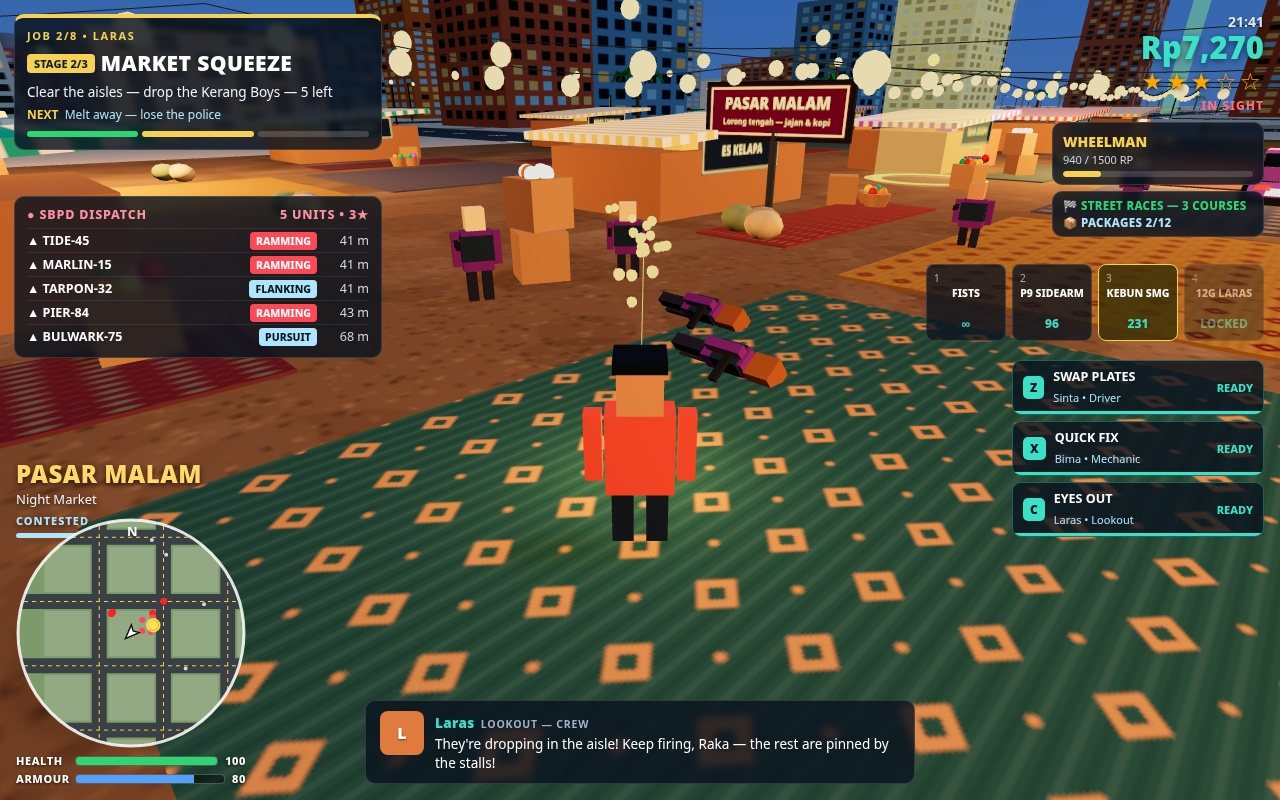
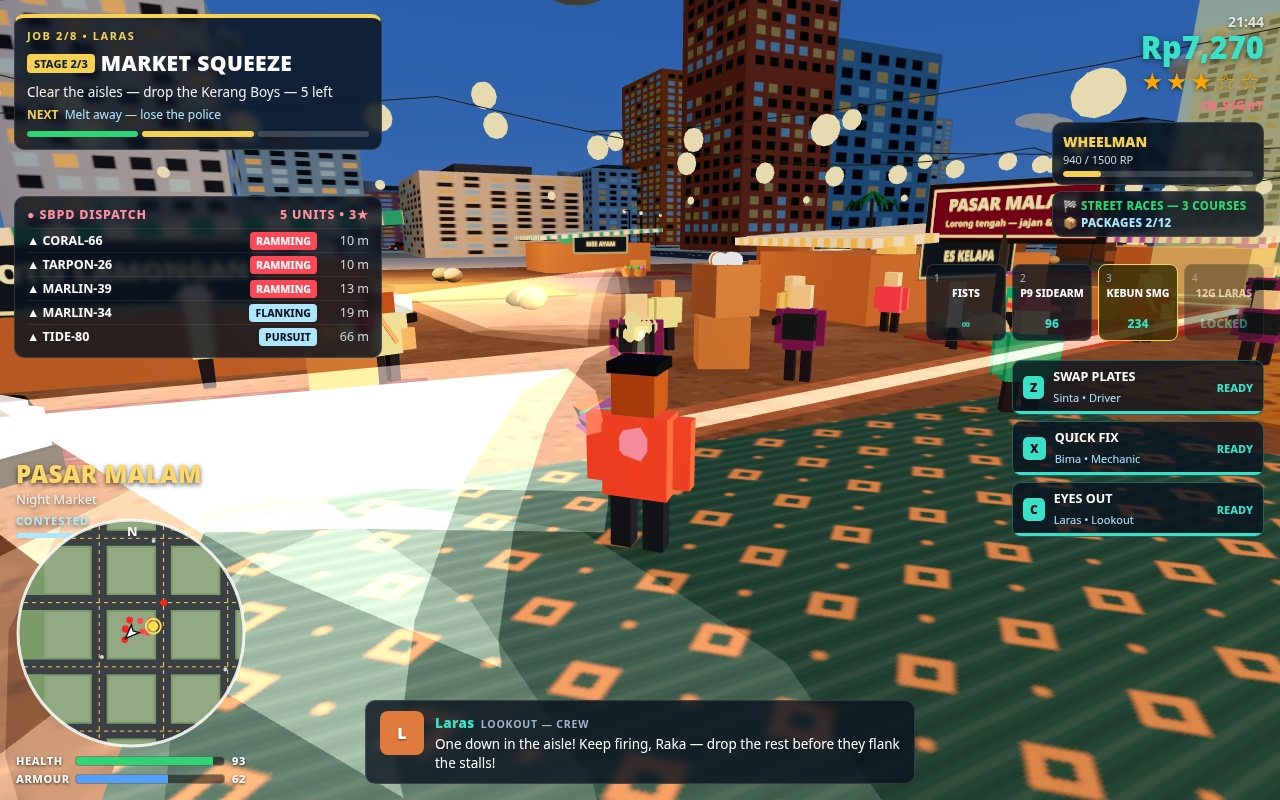
Senja Bay Heat v3 market firefight: gunfire VFX pass (pooled glow beams, muzzle orbs, tuned hit bursts, flat corpse settle, hostile return-fire signs) + market restage (low close POV, one flat body centre-aisle under the beam, crowded aisle, clean gun-tracer-impact line)

diff --git a/game/src/shots.js b/game/src/shots.js
@@ -30,81 +30,118 @@ export function stageScene(name, api) {
       break;
     }
     case "market": {
-      // On-foot combat INSIDE the night market, staged for READABILITY:
-      // full night (21.6) so the muzzle light, tracers and hit sparks
-      // carry against the dark, and the whole fight pulled in tight
-      // around Raka in the z=143 aisle, the lit z=126 stall fronts
-      // as the backdrop. Raka fills the lower-centre foreground
-      // from the game's own follow camera.
-      // FIREFIGHT GEOMETRY (placeOnFoot heading 3π/4, so the SMG
-      // ray runs (+0.707, -0.707) out of (-238, 141.5); screen-
-      // right along the ray is (+0.707, +0.707)). Every placement
-      // below is dictated by how the dead actually fall in this
-      // game — measured, not guessed: a dropped man tips forward
-      // around his feet and comes to rest lying along world +Z
-      // from where he stood (bounding box ~2.0 m in Z, ~1.1 m in
-      // X, top edge ~0.75 m up, whatever he was facing). Two
-      // consequences. First, the fight runs NE at 45°, never due
-      // north: pointing at the camera, a corpse foreshortens
-      // into a blob behind Raka's legs; across the view, the
-      // same corpse stretches over the mats where a body reads
-      // as a body. (The stall signs, which face +Z, still read
-      // at 45° — the ES KELAPA stall stands on the ray itself.)
-      // Second, the first kill stands FAR down the ray: his
-      // corpse reaches ~1.4 m back toward Raka and ~1.4 m to
-      // screen-right of where he stood, so a man dropped at
-      // spitting distance ends up sprawled across Raka's gun
-      // arm, masquerading as part of it. Dropped at 5 m, the
-      // body lands clear of the silhouette, in the open.
-      //   A (-234.0, 138.4) — 5.0 m down the ray, 0.6 m screen-
-      //     right of it: the first kill. His corpse comes to rest
-      //     at (t≈3.6–5.0, s≈0.6–2.0), fully clear of Raka's
-      //     outline, muzzle light raking it every time the gun
-      //     fires past him — and it lands on the TEAL runner
-      //     (x −241.8…−229.2), not the burgundy one the fight
-      //     used to sit on: a dark purple body on dark red
-      //     pattern is camouflage, on teal it stands out. The
-      //     whole fight shifted one mat east for that contrast;
-      //     the backdrop sign on the ray is now ES KELAPA.
-      //   B (-232.3, 136.5) — 7.6 m down the ray, 0.5 m screen-
-      //     right: the second kill, and the live target while A
-      //     is going down, his burst stacking over A's body. The
-      //     offset matters for the living too — dead-centre on
-      //     the ray he hides behind Raka's silhouette and only
-      //     his head peeks over it, sparks and all; half a metre
-      //     to the side, his shoulder, gun arm and the burst on
-      //     his chest clear Raka's outline. His corpse reaches
-      //     back onto the same teal runner.
-      //   C (-230.8, 133.9) — 10.5 m down the ray, a step
-      //     screen-left: the next man in line, depth behind B,
-      //     already returning fire — once B drops, the fire
-      //     walks on to him.
-      //   D (-234.4, 133.1) — off the line by the stall fronts,
-      //     screen-left: trades shots with Raka the whole time
-      //     (his hits land as red bursts on Raka — the game's real
-      //     hostile fire, nothing posed).
-      // The capture tool holds the trigger on the real shoot() and
-      // picks from the frames where tracers, spark bursts and the
-      // downed men share the frame. Clock 21.6, not 20.2: at 20.2
-      // the dusk band still floats the whole scene up into evening
-      // blue and the firelight drowns in it — 21.6 is past the band,
-      // true night, when the market's own signs and string lights
-      // (all unlit materials) take over the frame and every tracer
-      // and spark stands out against the dark.
+      // On-foot combat INSIDE the night market, staged for CLEAN
+      // FIREFIGHT GEOMETRY. The previous frame failed on geometry,
+      // not content: the camera sat dead behind Raka so his firing
+      // side was hidden, his target stood directly behind his
+      // silhouette so only the spark column showed above his head,
+      // and two dropped men lay half-rolled beside him with their
+      // gun boxes jutting at matching angles — clutter, not story.
+      // This staging fixes the geometry itself:
+      //   * LOW, CLOSE, DOWN THE AISLE. The reference frames for
+      //     this competition shoot their fights from shoulder
+      //     height, tight behind the player, the corridor
+      //     vanishing ahead — while this game's default follow
+      //     camera floats high and far and shrinks every effect
+      //     in the scene. So the capture tool drags the pitch
+      //     most of the way to the game's own floor (camPitch
+      //     ≈0.17 against the 0.06 floor the mouse-orbit allows:
+      //     camera ≈3.0 m up, Raka filling the lower third — the
+      //     last step down was tried and a flat corpse on the
+      //     aisle goes edge-on and vanishes at the full floor)
+      //     and setCamOffset(0.35) holds a
+      //     slight over-the-shoulder angle, enough that the
+      //     muzzle orb and the beam's first metre clear his
+      //     silhouette. Nothing here exceeds what a player's own
+      //     mouse can do in normal play. In this game the shot
+      //     flies along the camera's forward — heading +
+      //     camOffset — so with Raka placed at heading 3π/4 the
+      //     ray runs fwd(3π/4 + 0.35) ≈ (0.42, −0.91): up the
+      //     aisle, stall fronts and their south-facing signs as
+      //     the backdrop.
+      //   * ONE MAN DOWN, FLAT, CENTRE-AISLE — AND ONE STILL
+      //     STANDING UNDER THE BEAM. The near Kerang Boy stands
+      //     on the ray 3.0 m out and takes the capture's first
+      //     four hits (60 hp, 15 a hit): he dies and settles flat
+      //     on his back along the aisle (the game's corpse settle
+      //     lays him toward −Z, head away from Raka, gun hand
+      //     empty), directly under the line of fire. The far man
+      //     stands on the same ray 6.4 m out; once the near man is
+      //     down the fire walks over the body onto him, and the
+      //     capture cuts the trigger after two hits with him
+      //     still on his feet — beam over the corpse, burst on
+      //     the standing man's torso, cause and effect in one
+      //     glance. One body is a story; the two half-rolled
+      //     corpses of the failed frame were clutter because the
+      //     old settle left them hovering with their gun boxes
+      //     jutting — flat and alone, a body reads as a body.
+      //   * ONE WINGMAN off the ray, well east of the far man
+      //     (perpendicular distance ~4.4 — the ray test can never
+      //     pick him), for gang context outside the sightline.
+      //   * A LIVING AISLE. Sixteen shoppers crowd the corridor —
+      //     browsing the stall fronts, walking the mid-aisle, a
+      //     pair deep at the east end — because a night market
+      //     with four figures in it reads as a film set, not a
+      //     market. Three of them stand inside the panic radius
+      //     (under 6 m from Raka, wanted already 2) and are
+      //     already fleeing across the frame's edges when the
+      //     shooting starts: the game's own behaviour, staged by
+      //     placement alone. Every shopper stands clear of the
+      //     sightline corridor (checked >1.6 m off the ray), so
+      //     the crowd fills the sides and the depth while the
+      //     beam, the body and the target stay readable.
+      // Full night 21.6, past the dusk band, when the market's
+      // own signs and string lights take over the frame and every
+      // beam and spark stands out against the dark.
       api.setClock(21.6);
       api.setStats({ money: 7270, respect: 940, health: 100, armor: 80 });
       api.startJobAt(1, 1);                    // clear-the-aisles stage (spawns hostiles)
-      api.placeOnFoot(-238, 141.5, Math.PI * 0.75); // on the teal runner, facing NE across the aisle
-      api.setCamOffset(0);
-      // Kerang Boys on and around the firing line, in SMG range.
-      api.addPed(-234.0, 138.4, { hostile: true, gun: true, shirt: 0x6c3483, vest: true });
-      api.addPed(-232.3, 136.5, { hostile: true, gun: true, shirt: 0x6c3483, vest: true });
-      api.addPed(-230.8, 133.9, { hostile: true, gun: true, shirt: 0x6c3483, vest: true });
-      api.addPed(-234.4, 133.1, { hostile: true, gun: true, shirt: 0x6c3483, vest: true });
-      // Shoppers kept south and west of the fight, out of the line.
-      api.addPed(-244, 138, {});
-      api.addPed(-233, 149, {});
-      api.addPed(-227, 149.5, {});
+      api.placeOnFoot(-238, 140.0, Math.PI * 0.75); // at the teal runner's north edge, facing NE across the aisle
+      api.setCamOffset(0.35);
+      // The fight, all of it on the ray fwd(3π/4 + 0.35) ≈
+      // (0.42, −0.91) out of (-238, 140): the near man 3.0 m out
+      // at (-236.7, 137.3) — he is the kill, and his body settles
+      // flat across the mat's north edge under the beam (close
+      // enough that even edge-on at the low camera his footprint
+      // reads — a flat body 9 m out in the dark nearly vanishes).
+      // He wears the gang purple without the vest: face-up on
+      // dark earth, the bare shirt is what keeps his body
+      // readable — the near-black vest swallowed him whole;
+      // the far man 6.4 m out at (-235.3, 134.2) — he is the
+      // standing target the beam lands on. His wingman stands
+      // well east of the line, a separate figure in his own
+      // space, never a twin beside the target and never on the ray.
+      api.addPed(-236.7, 137.3, { hostile: true, gun: true, shirt: 0x6c3483, vest: false });
+      api.addPed(-235.3, 134.2, { hostile: true, gun: true, shirt: 0x6c3483, vest: true });
+      api.addPed(-231.8, 134.6, { hostile: true, gun: true, shirt: 0x6c3483, vest: true });
+      // The crowd. api.addPed returns the ped, and pinning its
+      // wander speed is what keeps a browser browsing his stall
+      // for the whole capture: the game's shoppers walk at up to
+      // 3 m/s and think nothing of crossing a gunfight — the
+      // first crowded take lost its target behind a wanderer who
+      // strolled into the sightline and stood there.
+      const shopper = (x, z, speed) => { const p = api.addPed(x, z, {}); if (p) p.speed = speed; };
+      // Browsers along the north stall fronts, shuffling locally:
+      shopper(-247, 130.5, 0.35);
+      shopper(-243.5, 129.8, 0.35);
+      shopper(-240, 130.8, 0.35);
+      shopper(-232.5, 129.3, 0.35);
+      shopper(-228.5, 129.6, 0.35);
+      shopper(-225.5, 130.4, 0.35);
+      // Walkers in the mid-aisle, west and east of the corridor:
+      shopper(-249, 134.5, 0.9);
+      shopper(-245.5, 136.5, 0.9);
+      shopper(-226.5, 138.5, 0.9);
+      shopper(-224.5, 135, 0.9);
+      shopper(-231.5, 139.5, 0.7);
+      // A pair deep at the east end, for depth:
+      shopper(-220.5, 132.5, 0.5);
+      shopper(-219.3, 133.8, 0.5);
+      // Reactors inside the panic radius — already running when
+      // the first shot lands, across the frame's edges:
+      api.addPed(-243.2, 138.2, {});
+      api.addPed(-241.8, 135.8, {});
+      api.addPed(-233.8, 143.2, {});
       // A shopper's scooter parked at the aisle's edge east of the
       // fight, and one of the bay's hidden packages glowing further
       // down it (only the beach and pier packages are marked found,
@@ -115,7 +152,7 @@ export function stageScene(name, api) {
       api.selectWeapon("smg");
       api.setWanted(2, true);
       api.spawnFootPack(2);
-      api.dialogue("Laras", "LOOKOUT — CREW", "They're dropping in the aisle! Keep firing, Raka — the rest are pinned by the stalls!");
+      api.dialogue("Laras", "LOOKOUT — CREW", "One down in the aisle! Keep firing, Raka — drop the rest before they flank the stalls!");
       break;
     }
     case "port": {

diff --git a/game/src/main.js b/game/src/main.js
@@ -337,19 +337,95 @@ function tryEnterExitCar() {
 }
 
 // ---------- combat ----------
-const tracers = [];
-const tracerMat = new THREE.LineBasicMaterial({ color: 0xffe14d, transparent: true, opacity: 0.9 });
 const flash = new THREE.PointLight(0xffc46b, 0, 18);
 scene.add(flash);
 let fireTimer = 0;
+const Y_AXIS = new THREE.Vector3(0, 1, 0);
+// Gunfire visuals. A shot only reads — in play, and in any frame a
+// player might capture — if all three of its signs are big enough to
+// survive the render: a thick glowing beam, a muzzle flash orb, and a
+// fat spark burst where the round lands. The old one-pixel line
+// tracer and five grain-sized sparks vanished past spitting range, so
+// a firefight rendered as men standing still, and the cause-effect
+// line from gun to target could not be seen at all. Beams and orbs
+// are pooled and recycled like the ambient Effects pool, so the frame
+// loop never allocates for gunfire.
+const beams = [];
+let beamCursor = 0, lastBeamEnd = null;
+const beamGeo = new THREE.BoxGeometry(1, 1, 1);
+function beamPart(width, color, opacity) {
+  const mat = new THREE.MeshBasicMaterial({ color, transparent: true, opacity: 0, blending: THREE.AdditiveBlending, depthWrite: false });
+  const mesh = new THREE.Mesh(beamGeo, mat);
+  mesh.visible = false;
+  scene.add(mesh);
+  return { mesh, mat, width, baseOpacity: opacity };
+}
+for (let i = 0; i < 28; i++) beams.push({ core: beamPart(0.11, 0xffe9a8, 0.95), halo: beamPart(0.24, 0xff9d2e, 0.27), life: 0, maxLife: 1 });
+function fireBeam(a, b, hostile) {
+  const slot = beams[beamCursor]; beamCursor = (beamCursor + 1) % beams.length;
+  slot.core.mat.color.setHex(hostile ? 0xffc4b8 : 0xffe9a8);
+  slot.halo.mat.color.setHex(hostile ? 0xff4a3d : 0xff9d2e);
+  const len = Math.max(a.distanceTo(b), 0.1);
+  for (const part of [slot.core, slot.halo]) {
+    part.mesh.position.copy(a).add(b).multiplyScalar(0.5);
+    part.mesh.scale.set(part.width, part.width, len);
+    part.mesh.lookAt(b);
+    part.mat.opacity = part.baseOpacity;
+    part.mesh.visible = true;
+  }
+  slot.life = slot.maxLife = 0.16;
+  lastBeamEnd = b.clone();
+}
+// The muzzle orb: a radial-gradient sprite, additive — the glowing
+// ball of fire a real muzzle flash blooms into for a few frames.
+const flashTex = (() => {
+  const c = document.createElement("canvas"); c.width = c.height = 128;
+  const g = c.getContext("2d");
+  const grad = g.createRadialGradient(64, 64, 2, 64, 64, 64);
+  grad.addColorStop(0, "rgba(255,255,240,1)");
+  grad.addColorStop(0.25, "rgba(255,205,110,0.9)");
+  grad.addColorStop(0.6, "rgba(255,140,40,0.35)");
+  grad.addColorStop(1, "rgba(255,120,30,0)");
+  g.fillStyle = grad; g.fillRect(0, 0, 128, 128);
+  return new THREE.CanvasTexture(c);
+})();
+const orbs = [];
+let orbCursor = 0;
+for (let i = 0; i < 10; i++) {
+  const mat = new THREE.SpriteMaterial({ map: flashTex, transparent: true, opacity: 0, blending: THREE.AdditiveBlending, depthWrite: false });
+  const spr = new THREE.Sprite(mat);
+  spr.visible = false;
+  scene.add(spr);
+  orbs.push({ spr, mat, life: 0, maxLife: 1, baseScale: 1 });
+}
+function fireOrb(pos, scale, tint) {
+  const o = orbs[orbCursor]; orbCursor = (orbCursor + 1) % orbs.length;
+  o.spr.position.copy(pos);
+  o.baseScale = scale * (0.9 + Math.random() * 0.25);
+  o.spr.scale.set(o.baseScale, o.baseScale, 1);
+  o.mat.color.setHex(tint);
+  o.mat.opacity = 0.95;
+  o.spr.visible = true;
+  o.life = o.maxLife = 0.085;
+}
+// A dropped man settles flat on his back, face up, gun hand empty.
+// Tipped forward around his feet he used to come to rest half-rolled
+// and hovering, gun box jutting at an angle — clutter, not a body.
+// Flat at rest height reads instantly, from any camera.
+function settleCorpse(mesh) {
+  mesh.rotation.x = -Math.PI / 2;
+  mesh.position.y = 0.22;
+  if (mesh.userData.gun) mesh.userData.gun.visible = false;
+}
 const particles = [];
 const particleGeo = new THREE.SphereGeometry(0.1, 5, 5);
-function burst(pos, color, n, spread, up) {
+function burst(pos, color, n, spread, up, size = 1, life = 0.45) {
   for (let i = 0; i < n; i++) {
     const m = new THREE.Mesh(particleGeo, new THREE.MeshBasicMaterial({ color }));
     m.position.copy(pos);
+    m.scale.setScalar(size * (0.8 + Math.random() * 0.5));
     scene.add(m);
-    particles.push({ mesh: m, vx: (Math.random() - 0.5) * spread, vy: Math.random() * up, vz: (Math.random() - 0.5) * spread, life: 0.3 + Math.random() * 0.3 });
+    particles.push({ mesh: m, vx: (Math.random() - 0.5) * spread, vy: Math.random() * up, vz: (Math.random() - 0.5) * spread, life: life * (0.7 + Math.random() * 0.6) });
   }
 }
 function shoot(dt) {
@@ -364,7 +440,10 @@ function shoot(dt) {
   const dir = new THREE.Vector3(Math.sin(camYaw + Math.PI), 0, Math.cos(camYaw + Math.PI));
   dir.x += (Math.random() - 0.5) * w.spread * 2; dir.z += (Math.random() - 0.5) * w.spread * 2;
   dir.normalize();
-  flash.position.copy(origin).addScaledVector(dir, 1.2); flash.intensity = 26;
+  if (w.id !== "fists") {
+    flash.position.copy(origin).addScaledVector(dir, 1.2); flash.intensity = 26;
+    fireOrb(flash.position, 0.95, 0xffffff);
+  }
   // Nearest hittable along the ray: hostiles, police on foot, any car.
   let bestT = w.range, hit = null;
   // The ray test must keep the ENTITY it hits, not its position vector:
@@ -380,14 +459,18 @@ function shoot(dt) {
   for (const p of peds) if (!p.dead) testPoint(p, 0.9);
   for (const c of cars) if (!c.wrecked) testPoint(c, 2.4);
   const end = origin.clone().addScaledVector(dir, bestT);
-  const line = new THREE.Line(new THREE.BufferGeometry().setFromPoints([origin.clone().setY(1.45), end.setY(1.3)]), tracerMat);
-  scene.add(line); tracers.push({ line, life: 0.07 });
+  end.setY(1.3);
+  if (w.id !== "fists") {
+    const muzzle = origin.clone().addScaledVector(dir, 1.2); muzzle.y = 1.45;
+    fireBeam(muzzle, end, false);
+  }
   if (hit) {
-    burst(end, 0xffd166, 5, 3, 2.5);
+    burst(end, 0xffd166, 8, 2.2, 1.6, 1.5, 0.32);
     if (hit.health !== undefined && hit.kind === undefined) { // a person
+      fireOrb(end, 0.6, 0xffe9c4);
       hit.health -= w.damage; audio.hit();
       if (hit.health <= 0 && !hit.dead) {
-        hit.dead = true; hit.mesh.rotation.x = Math.PI / 2; hit.mesh.position.y = 0.3;
+        hit.dead = true; settleCorpse(hit.mesh);
         if (hit.hostile) commitCrime(3); else if (hit.cop) commitCrime(4); else commitCrime(3);
       } else if (hit.hostile) hit.flee = 0; else hit.flee = 5;
     } else if (hit.kind) { // a car
@@ -581,7 +664,13 @@ function updatePeds(dt) {
         if (p.shootCd <= 0) {
           p.shootCd = 0.9 + Math.random() * 0.9;
           audio.shoot("smg");
-          burst(new THREE.Vector3(fp.x, 1.2, fp.z), 0xff6b81, 2, 2, 1.5);
+          // Return fire wears the same signs as the player's — an orb
+          // at his muzzle and a beam to the man he is shooting at —
+          // so a two-way fight reads from either side.
+          const muzzle = new THREE.Vector3(-0.42, 1.35, 0.35).applyAxisAngle(Y_AXIS, p.heading).add(p.pos);
+          fireOrb(muzzle, 0.8, 0xffc9b0);
+          fireBeam(muzzle, new THREE.Vector3(fp.x, 1.3, fp.z), true);
+          burst(new THREE.Vector3(fp.x, 1.2, fp.z), 0xff6b81, 5, 2, 1.5, 1.6);
           if (S.inCar) damageCar(S.inCar, 2, null); else hurtPlayer(4);
         }
       }
@@ -606,7 +695,7 @@ function updatePeds(dt) {
     animatePerson(p.mesh, p.phase, move);
     // Run over by the player's car.
     if (S.inCar && Math.abs(S.inCar.speed) > 6 && dist2d(p.pos, S.inCar.pos) < 2.4) {
-      p.dead = true; p.mesh.rotation.x = Math.PI / 2; p.mesh.position.y = 0.3;
+      p.dead = true; settleCorpse(p.mesh);
       commitCrime(3); audio.crash(0.4);
     }
   }
@@ -914,7 +1003,7 @@ if (STAGE) {
   stageScene(STAGE, api);
   // Staging-only inspection handle for the screenshot tooling: lets the
   // capture scripts verify the posed state (never set in normal play).
-  window.__senjaDebug = { peds, cars, player, state: S, get camYaw() { return camYaw; }, get flashI() { return flash.intensity; }, get flashPos() { return { x: +flash.position.x.toFixed(2), z: +flash.position.z.toFixed(2) }; }, get tracerEnd() { const t = tracers[tracers.length - 1]; if (!t) return null; const a = t.line.geometry.attributes.position; return { x: +a.getX(1).toFixed(2), z: +a.getZ(1).toFixed(2) }; } };
+  window.__senjaDebug = { peds, cars, player, state: S, get camYaw() { return camYaw; }, get flashI() { return flash.intensity; }, get flashPos() { return { x: +flash.position.x.toFixed(2), z: +flash.position.z.toFixed(2) }; }, get tracerEnd() { return lastBeamEnd ? { x: +lastBeamEnd.x.toFixed(2), z: +lastBeamEnd.z.toFixed(2) } : null; } };
   // Let the posed scene settle, then tell the screenshot tool we are ready.
   setTimeout(() => { window.__senjaReady = true; }, 1400);
 }
@@ -958,9 +1047,25 @@ function frame(now) {
     activities.update(dt, { x: focusPos().x, z: focusPos().z, inCar: !!S.inCar });
     // Slow health regen when calm and unmolested.
     if (S.wanted === 0 && S.health > 0 && S.health < 100) S.health = Math.min(100, S.health + dt * 1.2);
-    // Tracers & particles & flash decay.
+    // Gunfire visuals & particles & flash decay.
     flash.intensity = Math.max(0, flash.intensity - dt * 300);
-    for (let i = tracers.length - 1; i >= 0; i--) { tracers[i].life -= dt; if (tracers[i].life <= 0) { scene.remove(tracers[i].line); tracers.splice(i, 1); } }
+    for (const slot of beams) {
+      if (slot.life <= 0) continue;
+      slot.life -= dt;
+      const k = Math.max(slot.life, 0) / slot.maxLife;
+      slot.core.mat.opacity = slot.core.baseOpacity * k;
+      slot.halo.mat.opacity = slot.halo.baseOpacity * k;
+      if (slot.life <= 0) { slot.core.mesh.visible = false; slot.halo.mesh.visible = false; }
+    }
+    for (const o of orbs) {
+      if (o.life <= 0) continue;
+      o.life -= dt;
+      const k = Math.max(o.life, 0) / o.maxLife;
+      o.mat.opacity = 0.95 * k;
+      const s = o.baseScale * (0.7 + 0.3 * k);
+      o.spr.scale.set(s, s, 1);
+      if (o.life <= 0) o.spr.visible = false;
+    }
     for (let i = particles.length - 1; i >= 0; i--) {
       const p = particles[i]; p.life -= dt;
       p.mesh.position.x += p.vx * dt; p.mesh.position.y += p.vy * dt; p.mesh.position.z += p.vz * dt;
